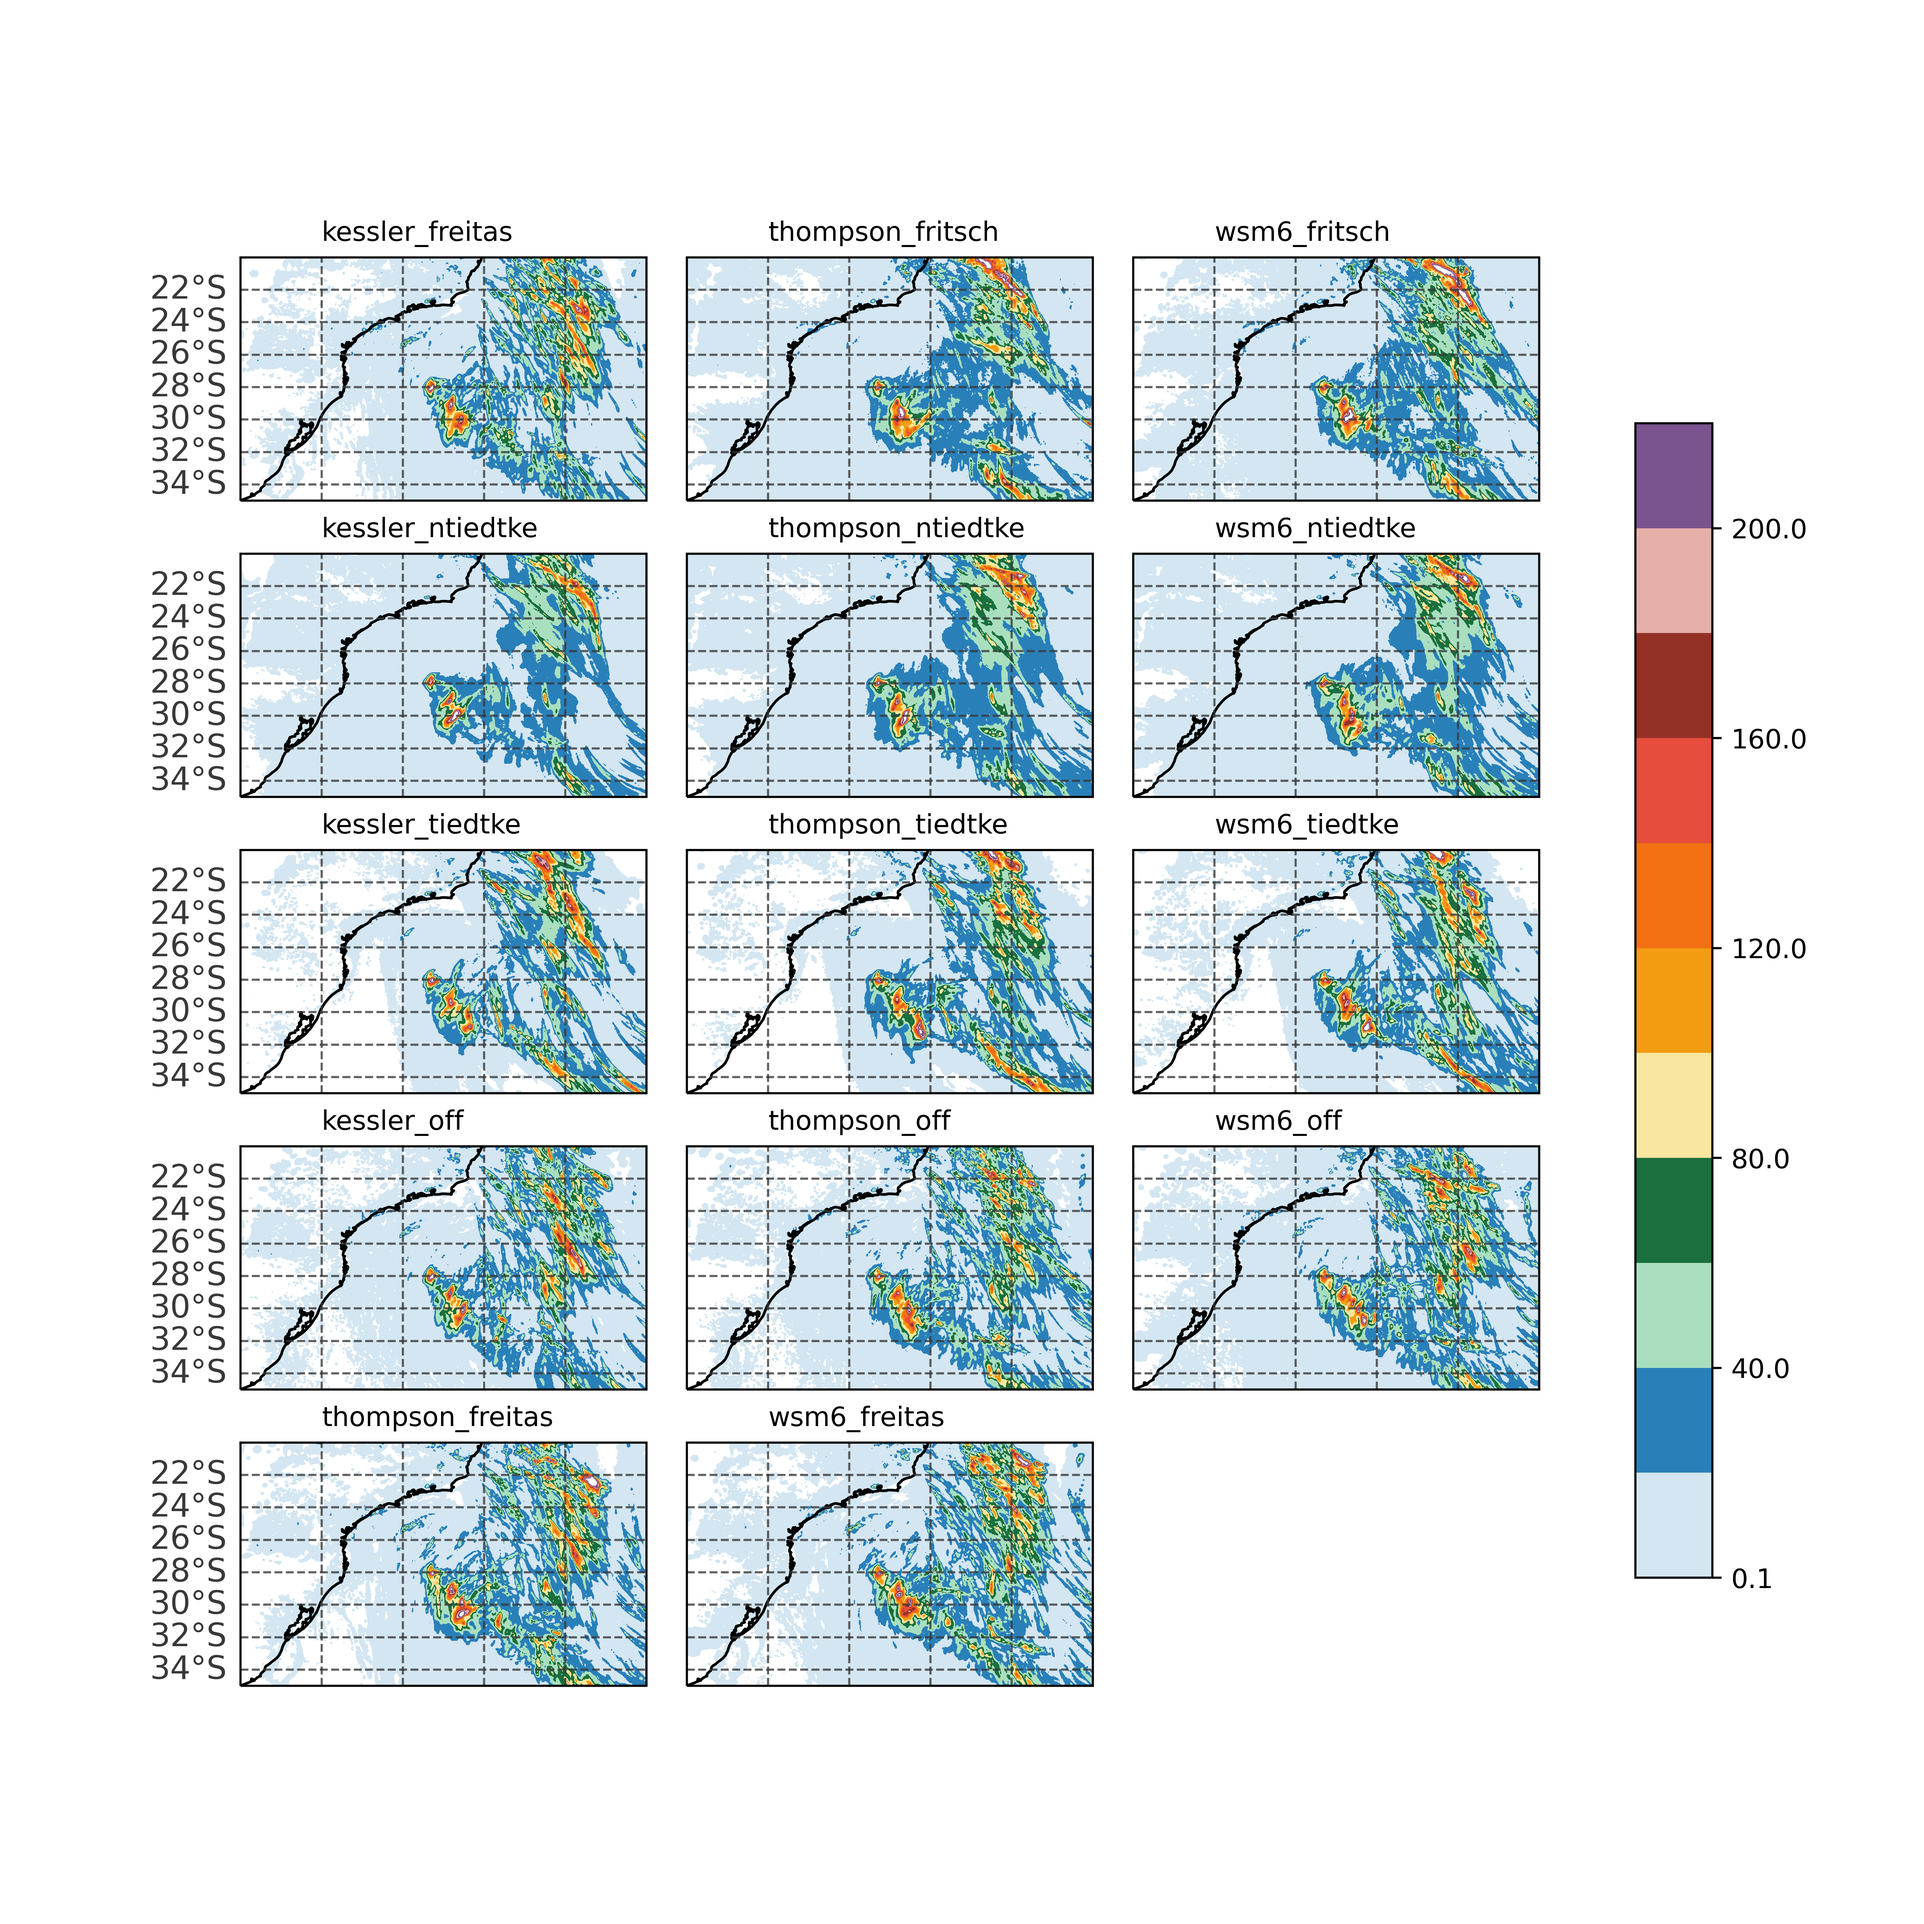
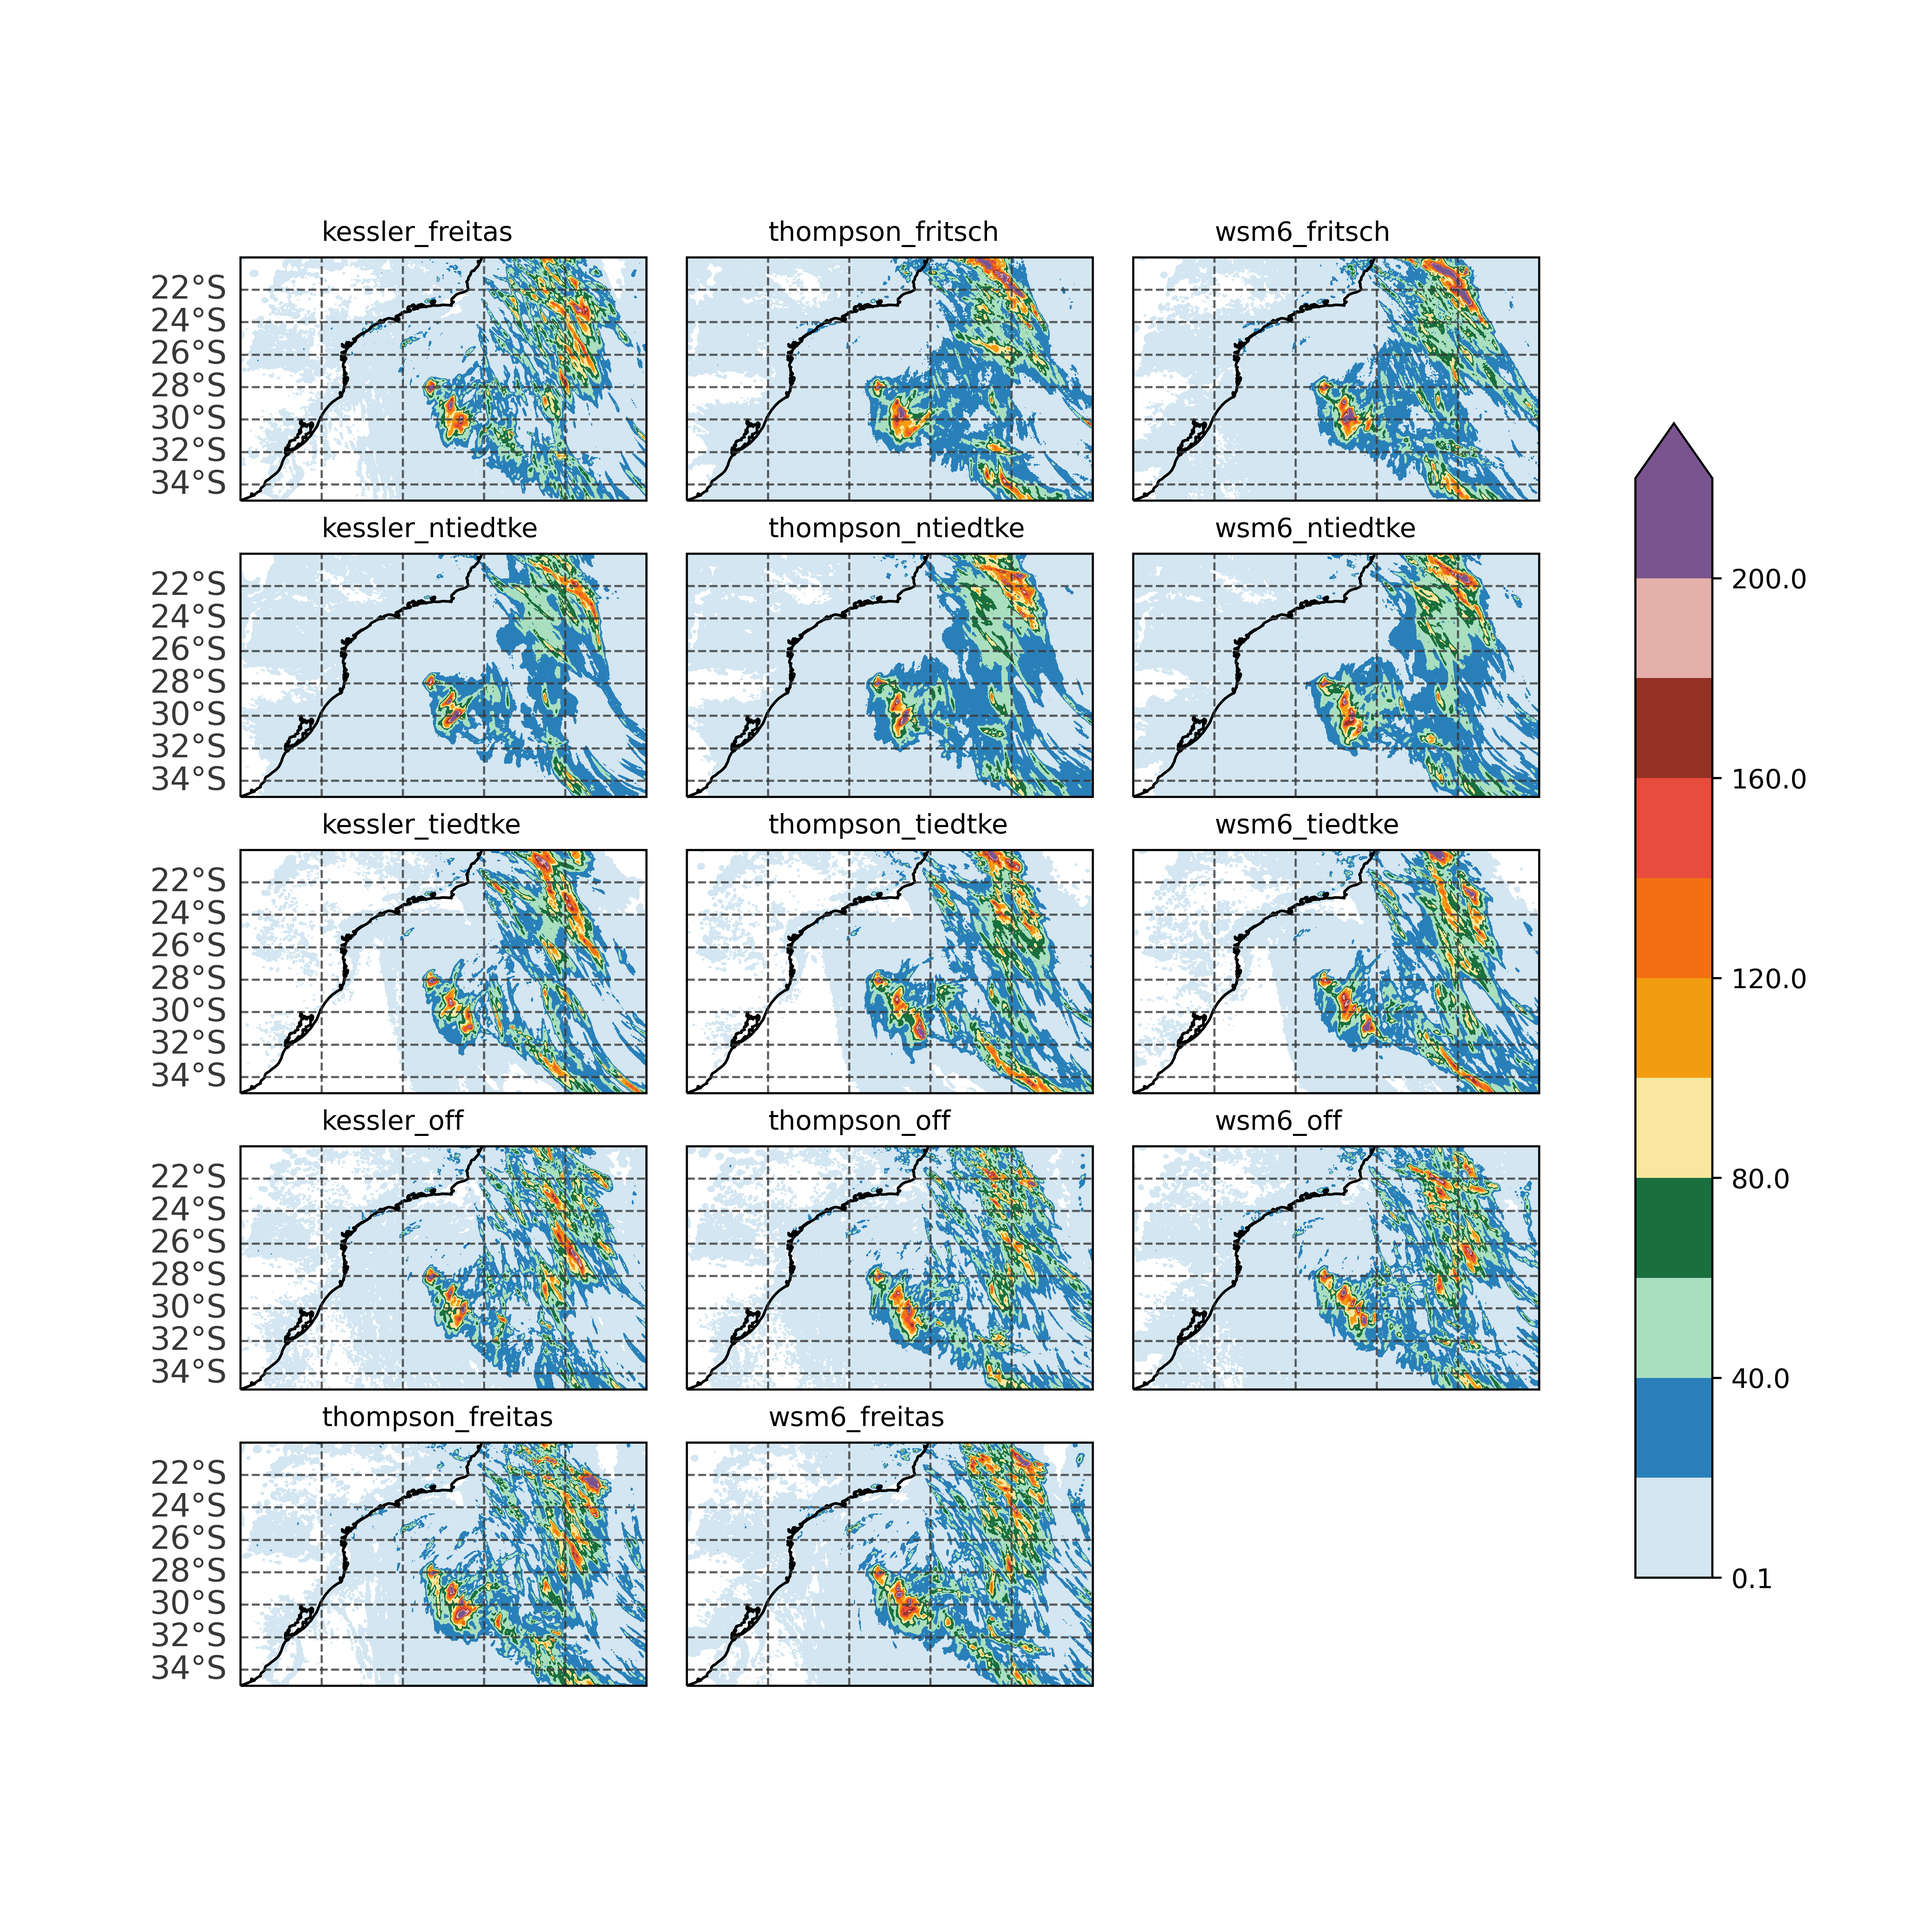
Update: extend

diff --git a/src/validate_precipitation.py b/src/validate_precipitation.py
@@ -6,7 +6,7 @@
 #    By: Danilo <danilo.oceano@gmail.com>           +#+  +:+       +#+         #
 #                                                 +#+#+#+#+#+   +#+            #
 #    Created: 2023/02/08 09:52:10 by Danilo            #+#    #+#              #
-#    Updated: 2023/07/11 15:08:47 by Danilo           ###   ########.fr        #
+#    Updated: 2023/07/11 16:49:03 by Danilo           ###   ########.fr        #
 #                                                                              #
 # **************************************************************************** #
 
@@ -351,7 +351,7 @@ def plot_precipitation_panels(
             configure_gridlines(ax, col, row)
             
             if bias_flag == False:
-                cf = ax.contourf(prec.longitude, prec.latitude, prec,
+                cf = ax.contourf(prec.longitude, prec.latitude, prec, extend='max',
                                     cmap=cmap_precipitation, levels=prec_levels)
             else:
                 bias = prec_interp-imerg_accprec
@@ -608,16 +608,16 @@ def main(benchmarks_directory, benchmarks_name, experiment_directory, imerg_file
     bias_norm = colors.TwoSlopeNorm(vmin=min_bias, vcenter=0, vmax=max_bias)
 
     ## Make plots
-    #plot_precipitation_panels(data, imerg_accprec, experiments, benchmarks_name, figures_directory)
+    plot_precipitation_panels(data, imerg_accprec, experiments, benchmarks_name, figures_directory)
     plot_precipitation_panels(data, imerg_accprec, experiments, benchmarks_name, figures_directory,
                                bias_flag=True, bias_levels=bias_levels, bias_norm=bias_norm)
-    #plot_imerg_precipitation(imerg_accprec, imerg_file, figures_directory)
+    plot_imerg_precipitation(imerg_accprec, imerg_file, figures_directory)
 
-    #plot_pdfs(data, imerg_accprec, benchmarks_name, experiments, figures_directory)
+    plot_pdfs(data, imerg_accprec, benchmarks_name, experiments, figures_directory)
 
-    #crmsd, ccoef, d_index = plot_taylor_diagrams(benchmarks_name, data, figures_directory)
-    #df_stats, df_stats_normalised = precipitation_statistics_to_csv(data, crmsd, ccoef, d_index, stats_directory)
-    #plot_precipitation_statistics(df_stats, df_stats_normalised, benchmarks_name, figures_directory)
+    crmsd, ccoef, d_index = plot_taylor_diagrams(benchmarks_name, data, figures_directory)
+    df_stats, df_stats_normalised = precipitation_statistics_to_csv(data, crmsd, ccoef, d_index, stats_directory)
+    plot_precipitation_statistics(df_stats, df_stats_normalised, benchmarks_name, figures_directory)
 
 if __name__ == '__main__':
 
